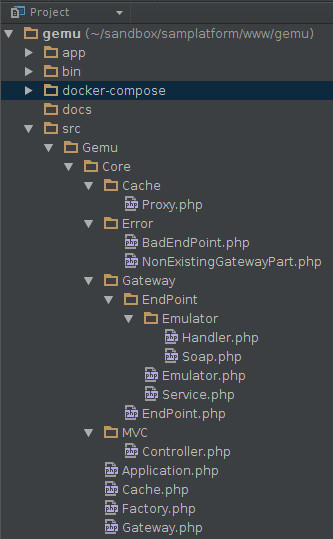
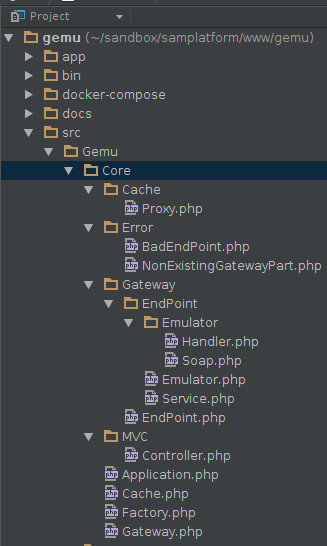
Full readme except js functionality

diff --git a/README.md b/README.md
@@ -2,12 +2,13 @@
 
 ## Structure
 
-There are 6 folders inside of emulator: app, bin, docker-compose, src, web, vendor. 
+There are 7 folders inside of emulator: app, bin, docker-compose, docs, src, vendor, web. 
 Each one of the folder serving its own purpose.
 
 app - templates, wsdls, configurations(soon to be added)
 bin - additional utility files such as composer.
 docker-compose - docker compose builds and configuration files.
+docs - files that are used for README.md
 src - project PHP code
 vendor - third party dependencies
 web - web root directory
@@ -18,14 +19,53 @@ Project php files are located in two folders named Core and Gateway.
 Core folder holds all code that is generic and the gateway folder holds individual implementation 
 of each gateway.
 
-### Core or how it works
+### Core structure
 
 ![Core structure](docs/core_structure.jpg)
 
+Application.php - all configurations that needs to be done before application launches must be
+done here. Ex. creating twig templating engine.
+Cache.php - class that handles any interaction with cache.
+Factory.php - class that creates other classes that are needed for this project.
+Gateway.php - class wrapper that holds both service and emulator implementation. _Soon to be removed_
+Cache\Proxy.php - wrapper that will persist transaction_id inside so you wont need to pass transaction_id for 
+transaction based queries.
+Error - folder that holds gemu specific errors.
+Gateway\EndPoint.php - base class which resolves endpoint name from requests and tries to call it.
+Gateway\EndPoint\Emulator.php - base class that will handle emulation of HTTP based requests.
+Gateway\EndPoint\Service.php - base class that handles requests for non-gateway endpoints.
+Gateway\EndPoint\Emulator\Handler.php - trait that is responsible for logging requests&responses from emulated endpoints.
+Gateway\EndPoint\Emulator\Soap.php - base class that handles emulation of SOAP&HTTP requests.
+
+### How it works
+
+1. Request comes to route _{purpose}/{gateway}/{endPoint}_
+2. Check purpose url attribute. Should be emulate or service. 
+3. Try to create gateway with name from gateway url attribute. If failed throws NonExistingGatewayPart exception.
+4. Gateway calls emulator or service object and pass it request.
+5. Function getEndPoint from emulator or service object returns method name. If failed throws BadEndPoint exception.
+6. If purpose is service it will call the method and return response.
+6a. If purpose is emulate and emulator is HTTP based. Then will trigger **Handler trait** \_\_call method
+and log request based on return of **getTransactionId** and **getData** functions.
+6b. If purpose is emulate and emulator is SOAP based. Then it will try to create SOAP server to handle the request if not
+request will be handled like an HTTP based one. Log request and response based on **getTransactionId** and **getData** functions
+in SOAP handler class or Emulator class based on previous step.
 
 ## UI
 
-## Javascript
+![Core structure](docs/ui.jpg)
+
+1. Iframe with emulated ad. Will be loaded after "Start button"(8) is pressed 
+and input validation is successful.
+2. Select with gateway name is used only to populate operator select.
+3. Operator select. Value of which will be used as a return for identification flow.
+4. Link to the campaign that will be tested with emulator.
+5. Input for msisdn. Is filled automatically on startup.
+6. Button to generate new msisdn.
+7. Radio button group for selecting flow. This will affect emulator response for identification flow.
+8. Start button. Starts a emulator session.
+9. Log section. This part will be populated by called endpoints names, requests to them 
+and responses from them.
 
 ## How to add new gateway
 
@@ -52,7 +92,7 @@ Example. If we want to mock this soap service.
 ```
 We need to create wsdl file app/wsdl/{gatewayName}/Identification.wsdl 
 and src/Gemu/Gateway/{gatewayName}/Soap/Identification.php. 
-**Note: wsdl file and SOAP handler files should be named same**
+**Note: wsdl file and SOAP handler files should be named same as mocked service**
 5. Add operator function into Service.php.
 ```
 /**
@@ -137,3 +177,29 @@ protected function doAction($transaction_id, array $params)
 5. Define getTransactionId and getData functions inside src/Gemu/Gateway/{gatewayName}/Emulator.php
 
 ## How to run
+
+1. Clone gemu.
+2. Clone mcb.
+3. Clone mcb-ads.
+4. Clone mcb-portal.
+5. Run 
+```
+docker-compose --file docker-compose/dev.yaml build
+docker-compose --file docker-compose/dev.yaml up
+```
+6. **Mcb project**. Set up emulator.yaml inside of config\Sam\Mcb\Gateway\{GatewayName} 
+and config\Sam\Mcb\Gateway\{GatewayName}\{countryCode} to point to your gemu application.
+7. **Mcb project**. Insert data into tables: `gateway`, `country`, `service`, `scenario_service`,
+`scenario`.
+8. **Mcb-ads project**. Set up scenario_id inside DE/DEFAULT/config.json 
+to point to scenario which you want to test. 
+9. **Mcb-portal project**. Point $api variable inside GrantAccess.php to your mcb project url.
+10. Provide url from mcb-ads
+```
+{your.mcb-ads.com}/ad.php/DEFAULT?affid=SAM&type=MCB_IN
+```
+to Campaign link input inside of gemu application ui
+```
+{localhost|vagrant.ip}:8080/web
+```
+(Section UI. Part 4) and press Start Button(Section UI. Part 8). 
